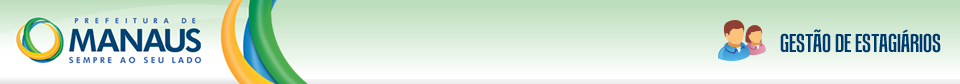
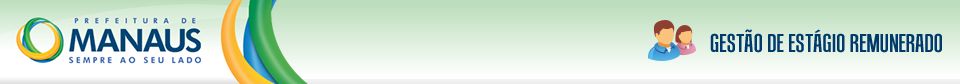
alteracao de icones e nome do sistema

Changed region(s): [[0.6562, 0.2381, 1.0, 0.7381], [0.8438, 0.3571, 0.875, 0.381]]

diff --git a/php/define.php b/php/define.php
@@ -19,11 +19,11 @@ switch ($srv){
     case 3: // Producao
         $projeto 		= "/estagio/";
         $url 			= 'http://'.$_SERVER[SERVER_NAME].$projeto;
-        $path 			= $_SERVER['DOCUMENT_ROOT'].$projeto;
+        $path 			= $_SERVER['DOCUMENT_ROOT']."estagio/";
         break;
 }
 
-    $titulo 		= 'Gestão de Estágiarios - Prefeitura de Manaus';
+    $titulo 		= 'Gestão de Estágio Remunerado - Prefeitura de Manaus';
 	$urlcss 		= $url.'css/';
 	$urlimg 		= $url.'img/';
 	$pathvo 		= $path.'src/vo/';
